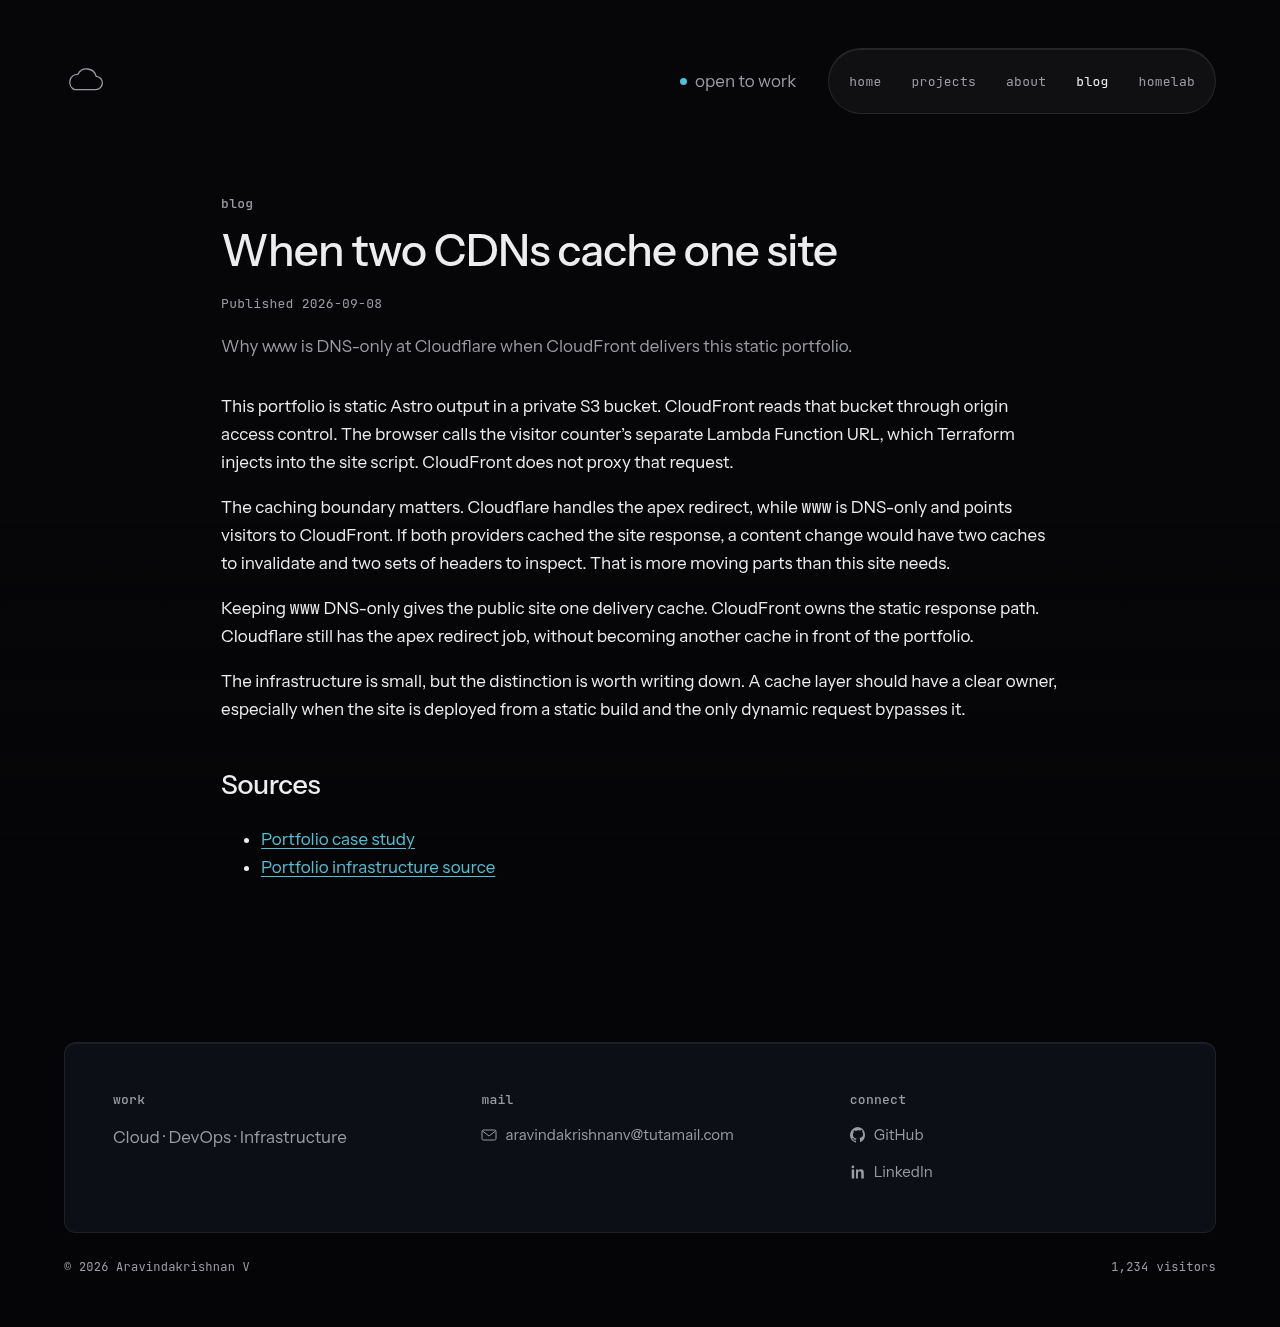
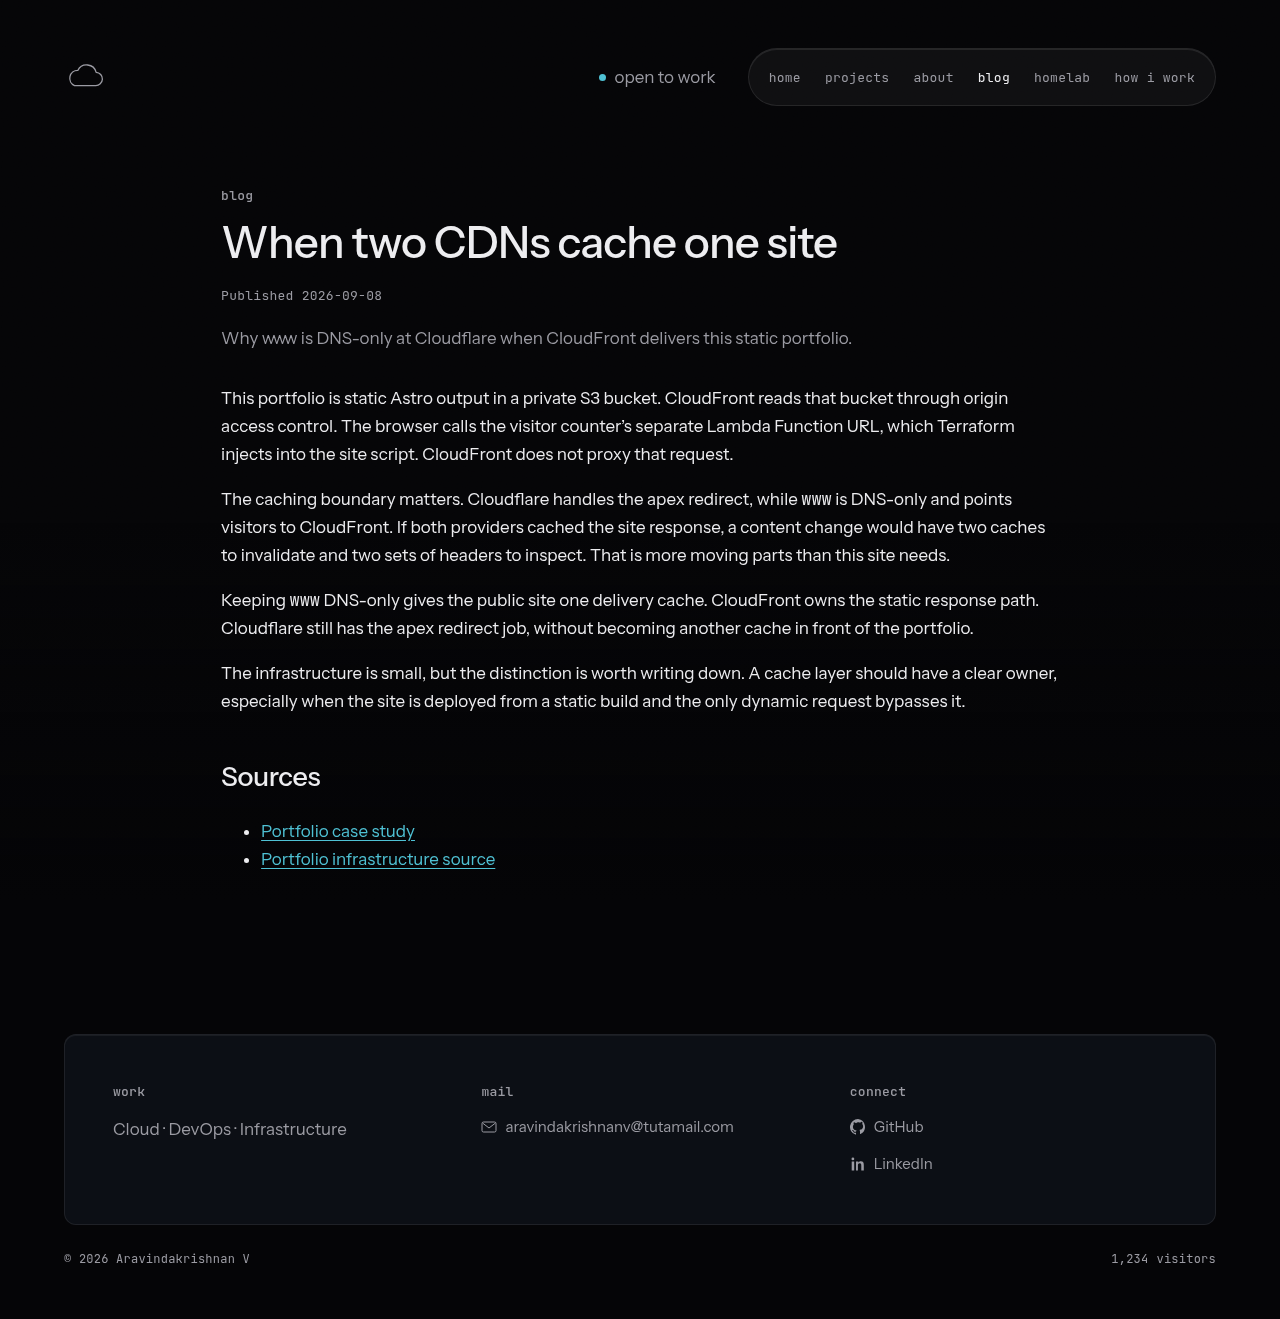
feat: publish Git-managed workflow and reusable review skill

diff --git a/web/src/styles/global.css b/web/src/styles/global.css
@@ -116,8 +116,9 @@ img { max-width: 100%; display: block; }
 .brand svg { width: 42px; height: 30px; }
 .nav-actions { gap: clamp(16px, 2.5vw, 32px); }
 .nav-links {
-  gap: clamp(16px, 2.5vw, 30px);
-  padding: 10px 20px;
+  flex-wrap: wrap;
+  gap: 4px 8px;
+  padding: 6px 12px;
   border: 1px solid rgba(255, 255, 255, 0.09);
   border-radius: 999px;
   background: rgba(255, 255, 255, 0.045);
@@ -130,7 +131,12 @@ img { max-width: 100%; display: block; }
 .nav-links a {
   display: inline-flex;
   align-items: center;
+  justify-content: center;
+  flex: 0 0 auto;
+  white-space: nowrap;
+  min-width: 44px;
   min-height: 44px;
+  padding-inline: 8px;
   color: var(--muted);
 }
 .nav-links a[aria-current="page"] { color: var(--text); }
@@ -147,7 +153,7 @@ img { max-width: 100%; display: block; }
   .nav .wrap { align-items: flex-start; flex-direction: column; }
   .nav-actions { width: 100%; }
   .status { display: none; }
-  .nav-links { width: 100%; justify-content: center; }
+  .nav-links { width: 100%; justify-content: center; border-radius: 24px; }
 }
 .dot {
   width: 7px;

diff --git a/web/src/content/reference/how-i-work.md b/web/src/content/reference/how-i-work.md
@@ -1,0 +1,33 @@
+---
+title: "How I work"
+description: "A reviewed account of my workflow, tools and reusable review checklist."
+reviewed: "2026-09-09"
+draft: false
+---
+
+## Overview
+
+I keep infrastructure work small, inspect the evidence first, write a plan, and leave a fresh reviewer enough context to disagree. This page describes a Git-managed workflow and setup, not a live dashboard or a promise that every change follows the same path.
+
+## AI workflow
+
+The workflow is deliberately human-controlled. Agents help with bounded implementation and checks. They do not merge or apply changes.
+
+<figure class="reference-figure">
+  <img src="/diagrams/workflow.svg" alt="A vertical workflow: inspect, plan and specify, implement in bounds, run checks and review, then human approval and CI deployment." />
+  <figcaption>From evidence to deployment. <a href="/diagrams/workflow.svg">Open the full-size SVG</a> · <a href="https://github.com/arkhiVd/portfolio-infra/blob/main/web/diagrams/workflow.mmd">source</a></figcaption>
+</figure>
+
+The steps are inspect, plan/spec, bounded implementation, lint/tests/build/browser checks and Terraform plan, fresh independent review, then human approval. CI deploys through OIDC after approval. I use one writer per file, run small checks on lighter models when that is enough, and escalate only when the work needs it. A fresh reviewer is independent, not a second voice for the same draft.
+
+## Setup and tools
+
+My laptop runs Omarchy on an Acer Swift SFG14-71. Pi is the working interface. A Codex subscription handles implementation where it fits. Herdr coordinates bounded agents, with explicit ownership rather than parallel edits to one file.
+
+The repository supplies the useful evidence: Markdown and Terraform are reviewed as text, Node 24 runs the pinned site checks, Astro builds the static output, browser review catches layout and accessibility problems, and Terraform plan exposes infrastructure changes without applying them. The public site is deployed separately through GitHub Actions and OIDC.
+
+## Reusable skills
+
+I wrote a small, public checklist for reviewing a static site. It is read-only by default, asks for the operator's identity before any separately authorised infrastructure plan, and avoids project-specific private context. Read the [skill source](https://github.com/arkhiVd/portfolio-infra/tree/main/web/public/skills/static-site-review), [MIT license](/skills/static-site-review/LICENSE.txt), or download the [skill file](/skills/static-site-review/SKILL.md).
+
+The visual critique is informed by Anthropic's third-party [frontend-design skill](https://github.com/anthropics/claude-code/tree/main/plugins/frontend-design), which is not authored or owned by this site.

diff --git a/docs/validation-workflow.md b/docs/validation-workflow.md
@@ -1,0 +1,32 @@
+# How I work validation
+
+Phase 13, 2026-09-09. One Markdown reference contains overview, AI workflow, setup/tools
+and reusable skills. No separate Uses or Skills page. Includes a process diagram and
+one new public static-site-review skill with its own MIT license and install example.
+
+```text
+Pinned Node 24.18.1: lint passed; 5 content/skill tests passed
+Build: 18 HTML pages
+Browser matrix: 13 non-redirect pages
+axe-core 4.13.0: 0 WCAG 2 A/AA and 2.1 A/AA violations per page
+Overflow: none at 320, 375, 768, 1280, 2560 px
+No-JS content, local links and keyboard skip link: PASS
+Third-party requests: 0; JavaScript errors: 0
+Skill copy into a disposable target: skill-copy-ok
+Terraform fmt/validate: PASS
+Read-only plan: 13 add, 10 change, 1 destroy, 0 replace
+```
+
+The plan is cumulative against deployed main, not an incremental count to add to the
+parent PR's plan. Only static S3 objects change; the destroy retires the old hashed CSS.
+Markdown downloads now have `text/markdown; charset=utf-8` via `frontend.tf`.
+
+Coordinator checks caught a stale skill-wording assertion, six-link navigation overflow
+at 320 px, and How I work anchor links appearing on Homelab. All were corrected and the
+browser matrix rerun. Screenshots are `docs/evidence/how-i-work-{1280,375}.png` and the
+updated homepage captures. Final performance validation and fresh review remain pending.
+
+Public prose omits private configs, paths, account identifiers and session records. The
+page describes observed tool roles and review boundaries without claiming measured
+subscription savings. Builds are explicitly allowed to write generated artifacts; the
+skill prohibits source edits and deployment during review.

diff --git a/web/public/skills/static-site-review/SKILL.md b/web/public/skills/static-site-review/SKILL.md
@@ -1,0 +1,26 @@
+---
+name: static-site-review
+description: Checklist for reviewing a static site without source edits before human approval.
+license: MIT
+---
+
+# Static site review
+
+## Trigger
+
+Use this when a static site change needs a bounded, independent review before a person approves it. The review does not edit source files; builds may write generated artifacts. Confirm the repository and requested scope first. Do not inspect unrelated private material.
+
+## Review
+
+1. Read the repository's local instructions and the change diff. List the files in scope.
+2. Read the design contract, routes, content schema, layout, navigation, and relevant tests. Check that new claims have a source.
+3. Inspect changed content for secrets, private paths, internal addresses, account identifiers, invented metrics, and unclear ownership.
+4. Check keyboard focus, heading order, link names, image alternatives, reduced motion, contrast, and 320–375px layout behavior.
+5. Run the repository's documented lint, test, and build commands with the pinned toolchain. Do not install dependencies as part of review unless the operator explicitly asks.
+6. Review the generated output for routes, drafts, sitemap links, MIME-sensitive assets, and accidental external requests.
+7. Record failures with file and line references. Do not edit source, merge, deploy, or claim a check you did not run.
+8. If an operator separately authorizes an infrastructure plan, verify identity and account before running it. Never use a default account profile.
+
+## Report
+
+State the commands run, their real results, open risks, and whether human approval is still needed. A review is evidence, not permission to deploy.

diff --git a/web/diagrams/README.md b/web/diagrams/README.md
@@ -5,6 +5,7 @@ The Mermaid sources in this directory are rendered to `web/public/diagrams/` wit
 ```sh
 mmdc -p "$PUPPETEER_CONFIG" -c diagrams/mermaid.config.json -b "#0F1218" -i diagrams/homelab-access.mmd -o public/diagrams/homelab-access.svg
 mmdc -p "$PUPPETEER_CONFIG" -c diagrams/mermaid.config.json -b "#0F1218" -i diagrams/homelab-sync.mmd -o public/diagrams/homelab-sync.svg
+mmdc -p "$PUPPETEER_CONFIG" -c diagrams/mermaid.config.json -b "#0F1218" -i diagrams/workflow.mmd -o public/diagrams/workflow.svg
 ```
 
 The committed SVGs keep clean-clone builds independent of the renderer. Captions carry the "sync is not backup" note.

diff --git a/web/public/skills/static-site-review/README.md b/web/public/skills/static-site-review/README.md
@@ -1,0 +1,14 @@
+# Static site review
+
+Source: [portfolio-infra](https://github.com/arkhiVd/portfolio-infra/tree/main/web/public/skills/static-site-review).
+
+Install by copying this reviewed directory into a disposable target clone. For example:
+
+```sh
+target=$(mktemp -d)
+mkdir -p "$target/.claude/skills"
+cp -R web/public/skills/static-site-review "$target/.claude/skills/"
+test -f "$target/.claude/skills/static-site-review/SKILL.md"
+```
+
+Review the files before use. This skill has no installer, network fetch, shell pipe, or global install.
